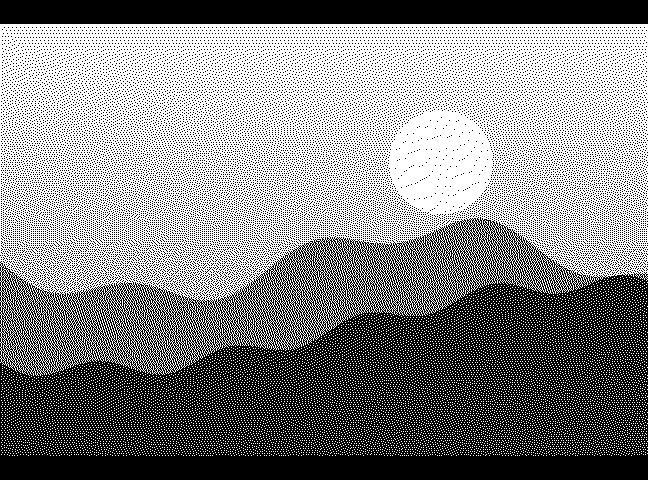
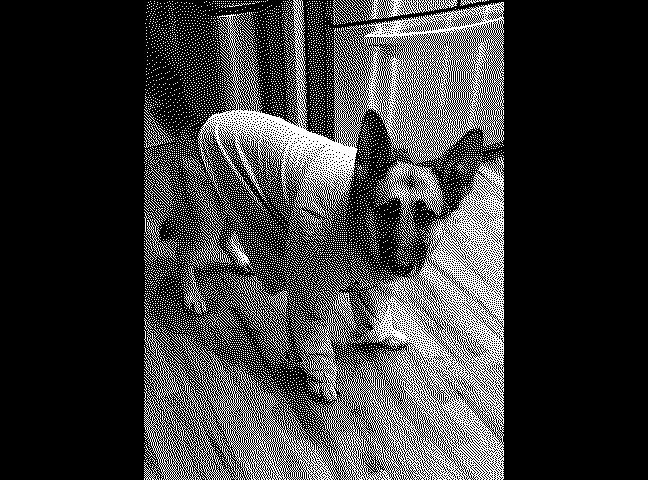
Docs: use a real photo (Juno Leigh) for the Photo frame previews
The Photo frame previews (Fit, dark mode, Fill) now show the maintainer's
dog, used with permission, instead of the synthetic landscape, and the
README's preview grid gains Fit and Fill photos.

The source image in docs/images/sources is grayscale and re-encoded
with all metadata removed; the original carried GPS coordinates and
camera details. docs/images/sources/README.md records this and warns
to strip metadata from any image added there.

Tests keep the synthetic sample data. Only the three photo previews
changed.

diff --git a/backend/cmd/previews/main.go b/backend/cmd/previews/main.go
@@ -9,6 +9,7 @@ import (
 	"flag"
 	"fmt"
 	"image"
+	"image/jpeg"
 	"image/png"
 	"os"
 	"path/filepath"
@@ -19,7 +20,16 @@ import (
 
 func main() {
 	out := flag.String("out", "../docs/images/screens", "output directory")
+	photoPath := flag.String("photo", "../docs/images/sources/juno-leigh.jpg", "sample photo for the Photo frame screen")
 	flag.Parse()
+	photo := loadPhoto(*photoPath)
+	sample := func(id string) *screens.Data {
+		d := screens.SampleData()
+		if id == "photo" {
+			d.Photo = photo
+		}
+		return d
+	}
 	if err := os.MkdirAll(*out, 0o755); err != nil {
 		fail(err)
 	}
@@ -29,18 +39,33 @@ func main() {
 	}
 	sort.Strings(ids)
 	for _, id := range ids {
-		light := screens.All[id].Render(screens.SampleData())
+		light := screens.All[id].Render(sample(id))
 		write(filepath.Join(*out, id+".png"), oneBit(light.Gray))
-		dark := screens.All[id].Render(screens.SampleData())
+		dark := screens.All[id].Render(sample(id))
 		dark.Invert()
 		write(filepath.Join(*out, id+"-dark.png"), oneBit(dark.Gray))
 	}
 	// Variants of a screen with a non-default setting.
-	fill := screens.SampleData()
+	fill := sample("photo")
 	fill.PhotoFill = true
 	write(filepath.Join(*out, "photo-fill.png"), oneBit(screens.Photo(fill).Gray))
 
 	fmt.Printf("rendered %d screens (light and dark) and variants to %s\n", len(ids), *out)
+}
+
+// loadPhoto reads the sample photo used for the Photo frame previews. It
+// must contain no metadata (EXIF/GPS); see docs/images/sources/README.md.
+func loadPhoto(path string) image.Image {
+	f, err := os.Open(path)
+	if err != nil {
+		fail(err)
+	}
+	defer f.Close()
+	img, err := jpeg.Decode(f)
+	if err != nil {
+		fail(err)
+	}
+	return img
 }
 
 // oneBit thresholds to exactly what the panel shows, which also keeps the

diff --git a/README.md b/README.md
@@ -11,6 +11,9 @@ Gaming Mode. No terminal, no sudo, no tracking.
   <br>
   <img src="docs/images/screens/weather.png" width="45%" alt="Weather screen">
   <img src="docs/images/screens/clock.png" width="45%" alt="Clock screen">
+  <br>
+  <img src="docs/images/screens/photo.png" width="45%" alt="Photo frame screen, photo shown whole">
+  <img src="docs/images/screens/photo-fill.png" width="45%" alt="Photo frame screen, photo filling the display">
 </p>
 
 > **Status: v0.1, first public release.** Tested on a Steam Machine running a

diff --git a/docs/images/sources/README.md b/docs/images/sources/README.md
@@ -1,0 +1,8 @@
+# Source images for the screen previews
+
+| File | Used for | Notes |
+| --- | --- | --- |
+| `juno-leigh.jpg` | Photo frame previews in [docs/screens.md](../../screens.md) | Juno Leigh, the maintainer's dog, used with permission. Grayscale, re-encoded with all metadata (EXIF, GPS, camera details) removed. |
+
+Images added here are public. Before adding one, remove its metadata: photos
+from phones usually contain the GPS location where they were taken.

diff --git a/docs/screens.md b/docs/screens.md
@@ -57,7 +57,7 @@ This month, with today highlighted.
 
 Pictures from a folder you choose, dithered for the e-ink panel. By default
 each photo is shown whole (**Fit**); turn on **Fill the screen** to crop it
-to the full display instead.
+to the full display instead. Modeling here: Juno Leigh, the maintainer's dog.
 
 | Fit (default) | Fit, dark mode | Fill the screen |
 | --- | --- | --- |
